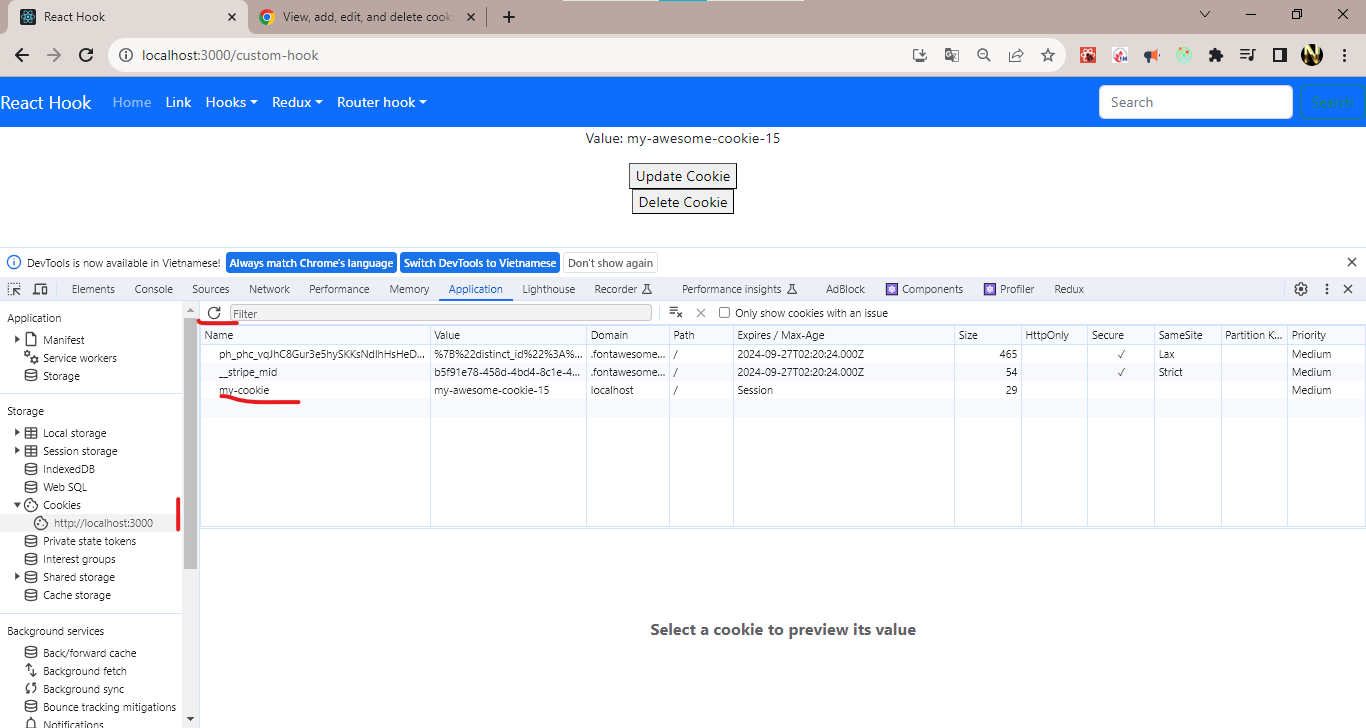
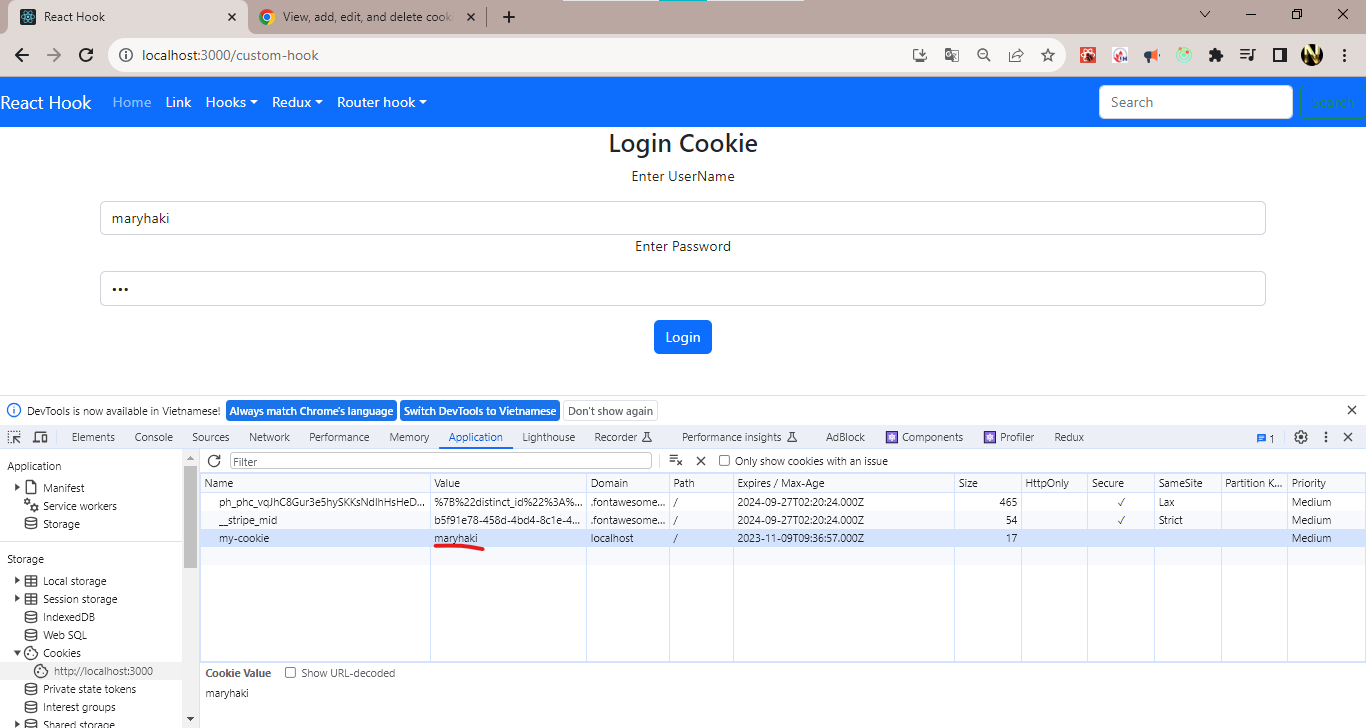
demo hook - useCookieCustom

diff --git a/react_buoi10/src/pages/DemoUseRoute/DemoUseRoute.jsx b/react_buoi10/src/pages/DemoUseRoute/DemoUseRoute.jsx
@@ -1,6 +1,7 @@
 import React, { useEffect, useState } from "react";
 import useRoute from "../../hooks/useRoute";
 import { useCookie } from "react-use";
+import useCookieCustom from "../../hooks/useCookieCustom";
 
 export default function DemoUseRoute() {
   const {
@@ -8,24 +9,47 @@ export default function DemoUseRoute() {
     params,
     searchParams: [searchParams, setSearchParams],
   } = useRoute();
+  //
+    const [setCookie, getCookie] = useCookieCustom('my-cookie', '');
+  //
+  const handleChangle = (e) => {};
+  const handleSubmit = (e) => {
+    e.preventDefault();
 
-  const [value, updateCookie, deleteCookie] = useCookie("my-cookie");
-  const [counter, setCounter] = useState(1);
+    //html
+    const username = document.querySelector("#username").value;
+    const password = document.querySelector("#password").value;
+    console.log(username, password);
 
-  useEffect(() => {
-    deleteCookie();
-  }, []);
-
-  const updateCookieHandler = () => {
-    updateCookie(`my-awesome-cookie-${counter}`);
-    setCounter((c) => c + 1);
+    setCookie(username,30)
   };
+  //
   return (
-    <div>
-      <p>Value: {value}</p>
-      <button onClick={updateCookieHandler}>Update Cookie</button>
-      <br />
-      <button onClick={deleteCookie}>Delete Cookie</button>
-    </div>
+    <form className="container" onSubmit={handleSubmit}>
+      <h3>Login Cookie</h3>
+      <div className="form-group">
+        <p>Enter UserName</p>
+        <input
+          type="text"
+          id="username"
+          className="form-control"
+          onChange={handleChangle}
+        />
+      </div>
+      <div className="form-group">
+        <p>Enter Password</p>
+        <input
+          type="password"
+          id="password"
+          className="form-control"
+          onChange={handleChangle}
+        />
+      </div>
+      <div className="form-group mt-3">
+        <button type="submit" className="btn btn-primary">
+          Login
+        </button>
+      </div>
+    </form>
   );
 }

diff --git a/react_buoi10/src/hooks/useCookieCustom.jsx b/react_buoi10/src/hooks/useCookieCustom.jsx
@@ -1,0 +1,30 @@
+import React from "react";
+
+/**
+ * cookieName : khi nguoi goi chuyen vao
+ */
+export default function useCookieCustom (cookieName, defaultValue) {
+  const setCookie = ( value = defaultValue, days = 30,name = cookieName) => {
+    var expires = "";
+    if (days) {
+      var date = new Date();
+      date.setTime(date.getTime() + days * 24 * 60 * 60 * 1000);
+      expires = "; expires=" + date.toUTCString();
+    }
+    document.cookie = name + "=" + (value || "") + expires + "; path=/";
+  };
+  const getCookie = (name) => {
+    var nameEQ = name + "=";
+    var ca = document.cookie.split(";");
+    for (var i = 0; i < ca.length; i++) {
+      var c = ca[i];
+      while (c.charAt(0) == " ") c = c.substring(1, c.length);
+      if (c.indexOf(nameEQ) == 0) return c.substring(nameEQ.length, c.length);
+    }
+    return null;
+  };
+
+  setCookie();
+
+  return [setCookie, getCookie];
+}

diff --git a/react_buoi10/README.md b/react_buoi10/README.md
@@ -13,6 +13,7 @@
         - npm  i react-use
         - link git: https://github.com/streamich/react-use
         - demo useCookie - luu data xuong ổ đĩa ??
+        - https://stackoverflow.com/questions/14573223/set-cookie-and-get-cookie-with-javascript
 
 ## Anh minh hoa
 ![...](./images/img_code.png)
